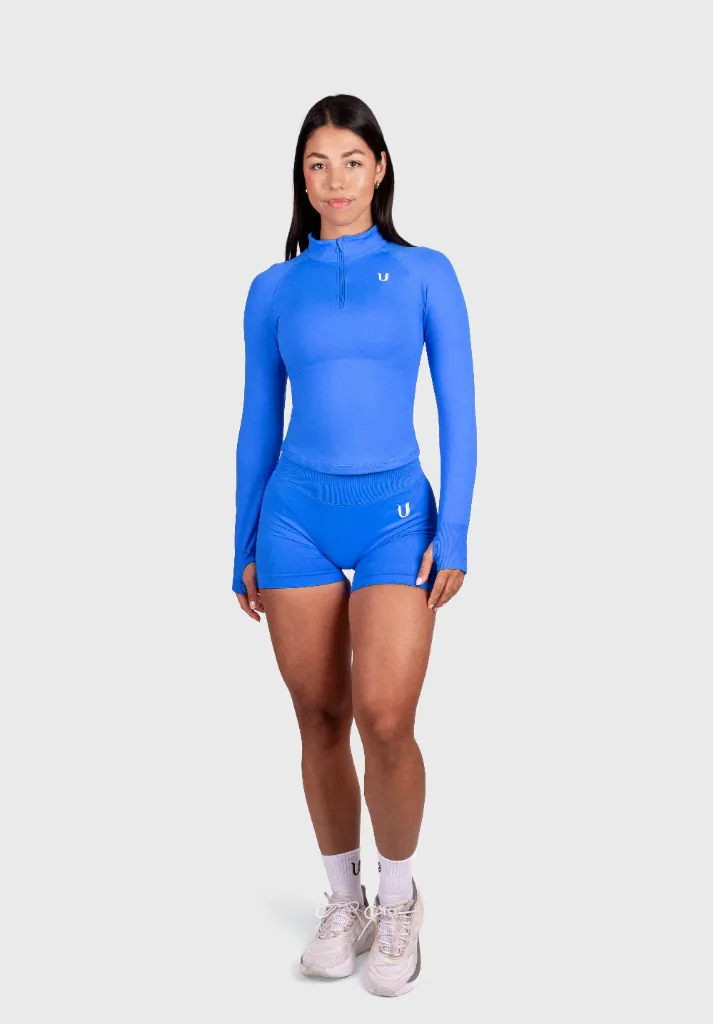
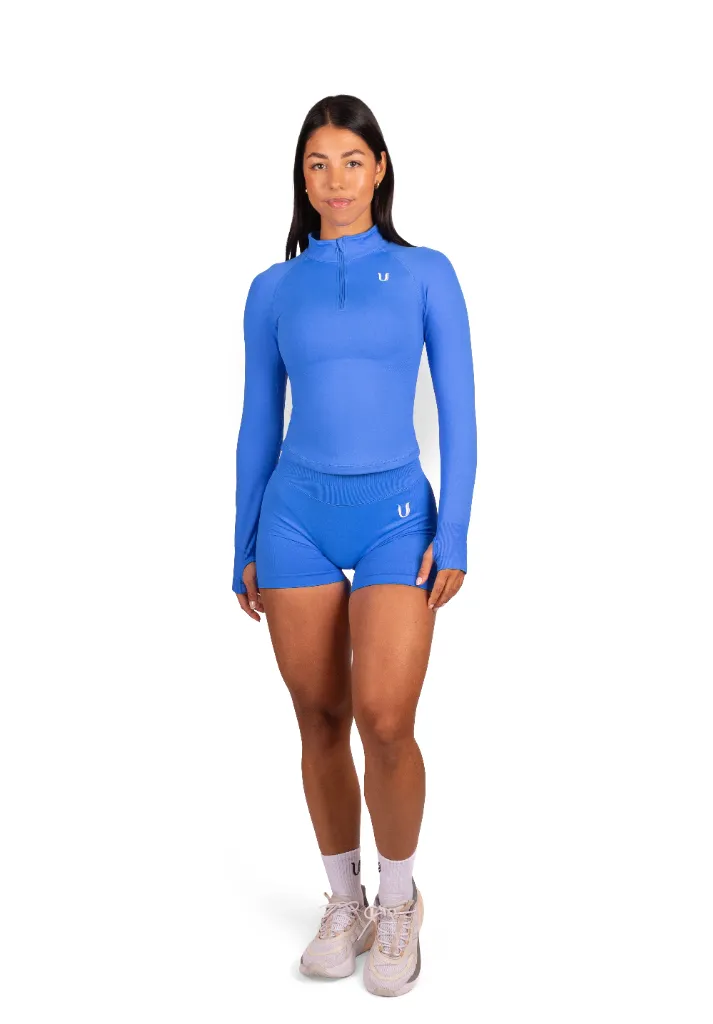
Align lookbook strip heights and replace activewear after image with pure white backdrop

diff --git a/ghost-mannequin-fashion-photo-retouching.html b/ghost-mannequin-fashion-photo-retouching.html
@@ -1784,7 +1784,7 @@ footer a:hover{color:var(--accent)}
             <span class="tag b">Before</span>
           </div>
           <div class="lay after">
-            <img id="modelAfterImg" src="/assets/agency_showcase/fashion-blue-activewear-after.webp" alt="Full-body female fitness model after on-model fashion retouching with neutral light-grey studio backdrop, fabric fold smoothing, and natural skin preserved" width="713" height="1024" loading="lazy" decoding="async">
+            <img id="modelAfterImg" src="/assets/agency_showcase/fashion-blue-activewear-after.webp" alt="Full-body female fitness model after on-model fashion retouching with pure white studio backdrop, fabric fold smoothing, and natural skin preserved" width="713" height="1024" loading="lazy" decoding="async">
             <span class="tag a">After</span>
           </div>
           <input type="range" min="0" max="100" value="50" aria-label="Before and after comparison for on-model fashion photo retouching">
@@ -1796,8 +1796,8 @@ footer a:hover{color:var(--accent)}
             data-after="/assets/agency_showcase/fashion-blue-activewear-after.webp"
             data-ratio="1046/1500"
             data-balt="Full-body female fitness model wearing cobalt blue activewear set on warm studio sweep before fashion retouching"
-            data-aalt="Full-body female fitness model after on-model fashion retouching with neutral bright studio backdrop, fabric fold smoothing, and natural skin preserved"
-            data-note="Drag slider — Backdrop neutralized, waist &amp; sleeve creases relaxed, natural skin &amp; anatomy 100% preserved.">Full-Body Activewear Fit</button>
+            data-aalt="Full-body female fitness model after on-model fashion retouching with pure white studio backdrop, fabric fold smoothing, and natural skin preserved"
+            data-note="Drag slider — Backdrop extracted to pure #FFFFFF, waist &amp; sleeve creases relaxed, natural skin &amp; anatomy 100% preserved.">Full-Body Activewear Fit</button>
           <button type="button" class="sw-btn" aria-pressed="false"
             data-before="/assets/agency_showcase/portrait-beauty-flyaway-before.webp"
             data-after="/assets/agency_showcase/portrait-beauty-flyaway-after.webp"
@@ -1807,7 +1807,7 @@ footer a:hover{color:var(--accent)}
             data-note="Drag slider — 16-bit manual dodge &amp; burn keeps real skin pores while clearing stray flyaways and blemishes.">Close-Up Skin &amp; Flyaways</button>
         </div>
         <div class="cap-note">
-          <span id="modelCapNote">Drag slider &mdash; Backdrop neutralized, waist &amp; sleeve creases relaxed, natural skin &amp; anatomy 100% preserved.</span>
+          <span id="modelCapNote">Drag slider &mdash; Backdrop extracted to pure #FFFFFF, waist &amp; sleeve creases relaxed, natural skin &amp; anatomy 100% preserved.</span>
         </div>
       </div>
 
@@ -1847,7 +1847,7 @@ footer a:hover{color:var(--accent)}
         </div>
         <div class="look-strip">
           <div class="look-tile">
-            <img src="/assets/agency_showcase/client_fashion_lookbook_al_dec_175.webp" alt="Seasonal lookbook frame 1 showing lilac sheer-sleeve plaid dress and uniform backdrop" width="933" height="1400" loading="lazy" decoding="async">
+            <img src="/assets/agency_showcase/lookbook-proof-01.webp" alt="Seasonal lookbook frame 1 showing lilac sheer-sleeve plaid dress and uniform backdrop" width="933" height="1400" loading="lazy" decoding="async">
             <div class="look-cap">Frame 01 &middot; Full Look</div>
           </div>
           <div class="look-tile">
@@ -1855,11 +1855,11 @@ footer a:hover{color:var(--accent)}
             <div class="look-cap">Organza &middot; Sheer Detail</div>
           </div>
           <div class="look-tile">
-            <img src="/assets/agency_showcase/client_fashion_lookbook_al_dec_402.webp" alt="Polka dot cotton midi dress matched to exact lookbook skin tone and contrast" width="933" height="1400" loading="lazy" decoding="async">
+            <img src="/assets/agency_showcase/lookbook-proof-48.webp" alt="Polka dot cotton midi dress matched to exact lookbook skin tone and contrast" width="933" height="1400" loading="lazy" decoding="async">
             <div class="look-cap">Frame 48 &middot; Tone Match</div>
           </div>
           <div class="look-tile">
-            <img src="/assets/agency_showcase/client_fashion_lookbook_al_dec_773.webp" alt="Yellow plaid lace-hem lookbook frame matched cleanly to opening set exposure" width="933" height="1400" loading="lazy" decoding="async">
+            <img src="/assets/agency_showcase/lookbook-proof-120.webp" alt="Yellow plaid lace-hem lookbook frame matched cleanly to opening set exposure" width="933" height="1400" loading="lazy" decoding="async">
             <div class="look-cap">Frame 120 &middot; Lace Hem</div>
           </div>
         </div>

diff --git a/work.html b/work.html
@@ -1087,7 +1087,7 @@ dialog::backdrop{
       "./assets/agency_showcase/fashion-blue-activewear-before.webp"
     ],
     "s": [
-      "Studio backdrop leveled from warm to crisp neutral",
+      "Studio backdrop cleaned to pure #FFFFFF white",
       "Compression fabric creasing refined",
       "Natural skin pores & stray hair cleanup"
     ]
